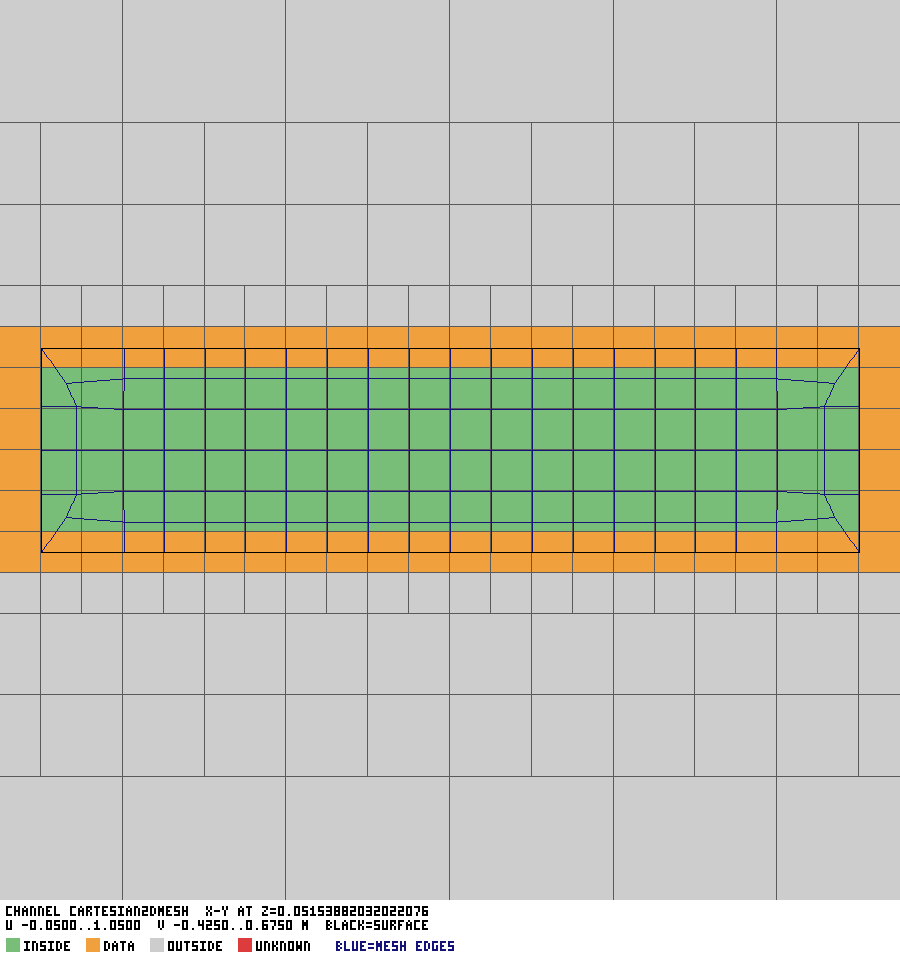
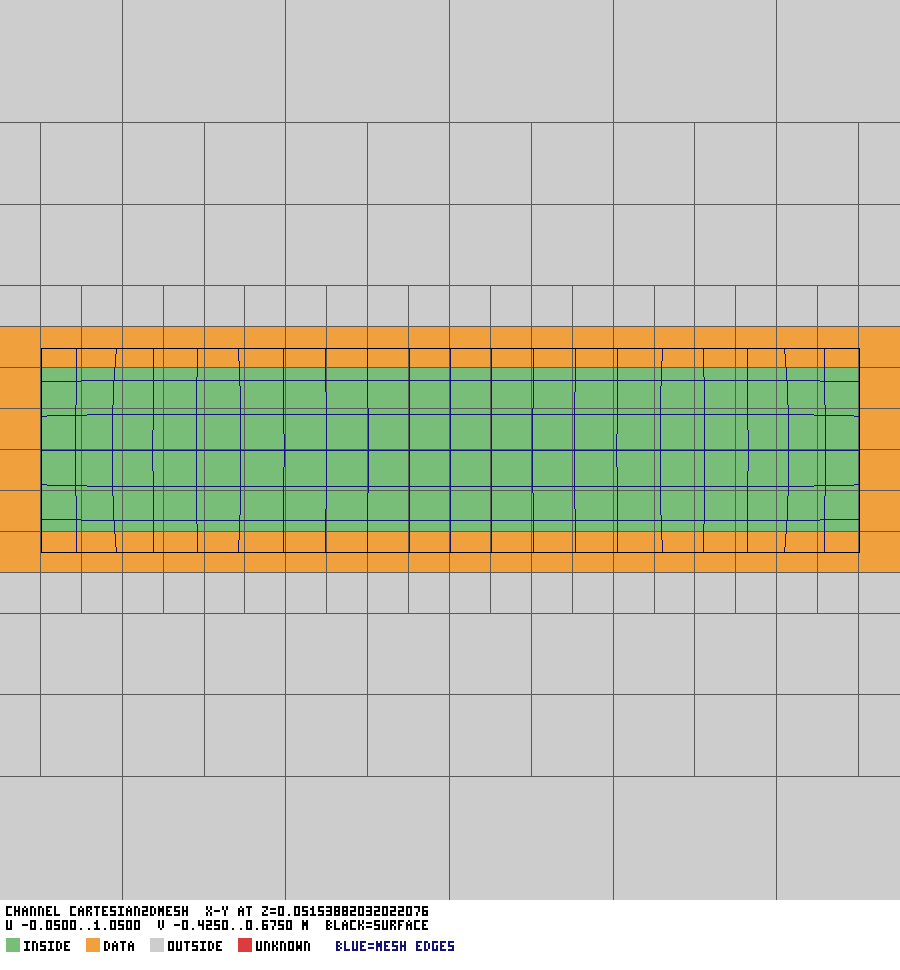
gh:#1275: optimizeSurface2D, untangleSurface2D and the 2D refineBoundaryLayers wired into cartesian_2d_mesh; 2D stop/restart test; S2-S6 held, S1 missed (recorded); D5 re-measured; images regenerated (2D and gh:#1274 rims); coverage, crate CLAUDE.md
Claude-Session: https://claude.ai/code/session_01HxmCueofxcJNMntRMmjqoW

diff --git a/crates/outram-park-fork-cfmesh/src/pipeline/cartesian_2d_mesh.rs b/crates/outram-park-fork-cfmesh/src/pipeline/cartesian_2d_mesh.rs
@@ -40,10 +40,10 @@
 //! | `surfaceTopology` | as `cartesianMesh` | [`super::cartesian_mesh::cartesian_surface_preparation`] |
 //! | `surfaceProjection` | `meshSurfaceMapper2D`: `adjustZCoordinates`, `preMapVertices`, `mapVerticesOntoSurface` | [`crate::surface_mapper_2d`] |
 //! | `patchAssignment` | `meshSurfaceEdgeExtractor2D::distributeBoundaryFaces` | [`crate::surface_mapper_2d::distribute_boundary_faces`] |
-//! | `edgeExtraction` | `remapBoundaryPoints`, then `optimiseMeshSurface` (`optimizeSurface2D`, `untangleSurface2D`) | [`crate::surface_mapper_2d::remap_boundary_points`]; **`optimizeSurface2D` / `untangleSurface2D` not ported** (noted) |
+//! | `edgeExtraction` | `remapBoundaryPoints`, then `optimiseMeshSurface` (`optimizeSurface2D`, `untangleSurface2D`) | [`crate::surface_mapper_2d::remap_boundary_points`]; ~~**`optimizeSurface2D` / `untangleSurface2D` not ported** (noted)~~ [`optimise_mesh_surface_2d`] (gh:#1275 remainder) |
 //! | `boundaryLayerGeneration` | `boundaryLayers` with `activate2DMode`, `addLayerForAllPatches` (always) | ~~`layers::boundary_layers` on every non-empty patch as **one group**, the empty patches untreated (what 2D mode does to them); patch-wise groups not ported~~ **UPDATED 2026-11-05 (gh:#1270 remainder):** `BoundaryLayers::activate_2d_mode` and the patch-wise `add_layer_for_all_patches` |
-//! | `meshOptimisation` | `optimiseMeshSurface` again | **not ported** (noted): nothing moves |
-//! | `boundaryLayerRefinement` | with a dict: `refineBoundaryLayers` in 2D mode, `untangleSurface2D` | **not ported** (2D mode): a dict gives a note, no split |
+//! | `meshOptimisation` | `optimiseMeshSurface` again | ~~**not ported** (noted): nothing moves~~ [`optimise_mesh_surface_2d`] |
+//! | `boundaryLayerRefinement` | with a dict: `refineBoundaryLayers` in 2D mode, `untangleSurface2D` | ~~**not ported** (2D mode): a dict gives a note, no split~~ `refine_boundary_layers_2d`, then `untangle_surface_2d` (gh:#1275 remainder) |
 //! | (always) | `renumberMesh`, `renameBoundaryPatches(mesh, dict, true)` | as `cartesian_mesh`, empty patches allowed |
 //!
 //! Reused from the 3D workflow where upstream reuses it: the extractor, the
@@ -54,6 +54,8 @@
 
 use crate::cartesian_mesh::{create_empty_patches, CartesianMeshOptions};
 use crate::layers::boundary_layers::{BoundaryLayersControls, LayerRequest};
+use crate::layers::refine_boundary_layers::{refine_boundary_layers_2d, RefineBoundaryLayersSettings, RefineError};
+use crate::surface_optimizer::{optimize_surface_2d, untangle_surface_2d, Surface2DReport};
 use crate::pipeline::cartesian_mesh::LayerTopology;
 use crate::math::Vec3;
 use crate::mesh_octree::{MeshOctree, TriSurf};
@@ -81,9 +83,10 @@ pub struct Cartesian2DMeshOptions {
     pub decompose_polyhedra_into_tets_and_pyrs: bool,
     /// `boundaryLayers` creation settings.
     pub layer_heights: BoundaryLayersControls,
-    /// A `boundaryLayers` dict with refinement settings is present (the 2D
-    /// refinement is not ported: a note).
-    pub refine_boundary_layers_requested: bool,
+    /// The `boundaryLayers` dict's refinement settings (`None`: no dict, no
+    /// refinement). ~~`refine_boundary_layers_requested: bool` (the 2D
+    /// refinement was not ported)~~ replaced in gh:#1275's remainder.
+    pub boundary_layers: Option<RefineBoundaryLayersSettings>,
     /// **Ablation, not upstream:** skip `boundaryLayerGeneration`.
     pub without_boundary_layer: bool,
     /// Patch-wise layer (upstream) or the one-group ablation (gh:#1270
@@ -99,7 +102,7 @@ impl Default for Cartesian2DMeshOptions {
             rename_boundary: None,
             decompose_polyhedra_into_tets_and_pyrs: false,
             layer_heights: BoundaryLayersControls::default(),
-            refine_boundary_layers_requested: false,
+            boundary_layers: None,
             without_boundary_layer: false,
             layer_topology: LayerTopology::PatchWise,
         }
@@ -131,6 +134,22 @@ pub struct Cartesian2DMeshReport {
     pub n_layer_cells: usize,
     /// Non-positive cells right after the layer.
     pub n_nonpositive_after_layer: usize,
+    /// `optimizeSurface2D` / `untangleSurface2D` of each `optimiseMeshSurface`
+    /// call (`edgeExtraction`, then `meshOptimisation`).
+    pub surface_2d: Vec<(Surface2DReport, Surface2DReport)>,
+    /// Cells `refineBoundaryLayers` split.
+    pub n_cells_refined: usize,
+    /// `refineBoundaryLayers` refused (this port's `NotPorted`).
+    pub refine_error: Option<String>,
+}
+
+/// `cartesian2DMeshGenerator::optimiseMeshSurface`:
+/// `meshSurfaceOptimizer(mse, octree)`'s `optimizeSurface2D()` (5
+/// iterations) and `untangleSurface2D()` (gh:#1275 remainder).
+pub fn optimise_mesh_surface_2d(m: &mut VolumeMesh, o: &MeshOctree) -> Result<(Surface2DReport, Surface2DReport), String> {
+    let a = optimize_surface_2d(m, o, 5)?;
+    let b = untangle_surface_2d(m)?;
+    Ok((a, b))
 }
 
 /// `meshOctree(surf, true)` and `createOctreeBoxes`: the quadtree.
@@ -238,7 +257,9 @@ fn run_2d(points: &[Vec3], tris: &[[usize; 3]], regions: Option<&SurfaceRegions>
             WorkflowStep::EdgeExtraction => {
                 let n = remap_boundary_points(m, &o)?;
                 rep.n_corner_edges = n;
-                rep.notes.push(format!("edgeExtraction: remapBoundaryPoints ({n} corner edges); optimiseMeshSurface (optimizeSurface2D, untangleSurface2D) NOT PORTED, skipped"));
+                let (a, b) = optimise_mesh_surface_2d(m, &o)?;
+                rep.notes.push(format!("edgeExtraction: remapBoundaryPoints ({n} corner edges); optimiseMeshSurface: optimizeSurface2D ({} outline, {} bottom points), untangleSurface2D bad faces {:?}", a.n_edge_points, a.n_partition_points, b.bad_faces));
+                rep.surface_2d.push((a, b));
             }
             WorkflowStep::BoundaryLayerGeneration => {
                 if opts.without_boundary_layer {
@@ -255,14 +276,27 @@ fn run_2d(points: &[Vec3], tris: &[[usize; 3]], regions: Option<&SurfaceRegions>
                     }
                 }
             }
-            WorkflowStep::MeshOptimisation => rep.notes.push("meshOptimisation: optimiseMeshSurface (optimizeSurface2D, untangleSurface2D) NOT PORTED; nothing moves".into()),
-            WorkflowStep::BoundaryLayerRefinement => {
-                if opts.refine_boundary_layers_requested {
-                    rep.notes.push("boundaryLayerRefinement: refineBoundaryLayers::activate2DMode NOT PORTED; the layer is left unrefined".into());
-                } else {
-                    rep.notes.push("boundaryLayerRefinement: no boundaryLayers dict; nothing to do".into());
-                }
+            WorkflowStep::MeshOptimisation => {
+                let (a, b) = optimise_mesh_surface_2d(m, &o)?;
+                rep.notes.push(format!("meshOptimisation: optimiseMeshSurface: optimizeSurface2D ({} outline, {} bottom points), untangleSurface2D bad faces {:?}", a.n_edge_points, a.n_partition_points, b.bad_faces));
+                rep.surface_2d.push((a, b));
             }
+            WorkflowStep::BoundaryLayerRefinement => match &opts.boundary_layers {
+                None => rep.notes.push("boundaryLayerRefinement: no boundaryLayers dict; nothing to do".into()),
+                Some(s) => match refine_boundary_layers_2d(m, s) {
+                    Ok((mm, rr)) => {
+                        *m = mm;
+                        types.resize(m.patches.len(), "patch".to_string());
+                        rep.n_cells_refined = rr.n_cells_split;
+                        let u = untangle_surface_2d(m)?;
+                        rep.notes.push(format!("boundaryLayerRefinement: refineBoundaryLayers (2D mode) split {} cells ({} edge hexahedra); untangleSurface2D bad faces {:?}", rr.n_cells_split, rr.n_edge_hex_cells, u.bad_faces));
+                    }
+                    Err(RefineError::NotPorted(msg)) => {
+                        rep.notes.push(format!("boundaryLayerRefinement: refineBoundaryLayers NOT PORTED for this mesh ({msg}); the layer is left unrefined"));
+                        rep.refine_error = Some(msg);
+                    }
+                },
+            },
             _ => {}
         }
     }
@@ -447,5 +481,120 @@ mod tests {
             let b = e.z_min_to_z_max[i];
             assert_eq!((moved[a].x, moved[a].y), (moved[b].x, moved[b].y));
         }
+    }
+
+    fn one_cell_thick(m: &VolumeMesh) -> bool {
+        let e2d = PolyMeshGen2DEngine::new(m);
+        e2d.is_ok_and(|e| m.points.iter().enumerate().all(|(i, _)| e.z_min_point[i] ^ e.z_max_point[i]))
+    }
+
+    /// V&V (gh:#1275 remainder), predictions S1–S4 of
+    /// `verification_and_validation/cartesian_2d_mesh_gh1275/README.md`.
+    #[test]
+    fn channel_2d_surface_optimisation_and_refined_layers() {
+        let (p, t, r) = channel_ribbon();
+        let dz = p[4].z;
+        let dict = MeshDict::with_max_cell_size(0.05);
+        // S1, edgeExtraction: the template's optimiseMeshSurface moves nothing
+        let stop = Cartesian2DMeshOptions { dict: dict.clone(), workflow: WorkflowSettings { stop_after: Some(WorkflowStep::PatchAssignment), restart_from_latest_step: false }, ..Default::default() };
+        let (mut m0, _) = cartesian_2d_mesh(&p, &t, Some(&r), &stop).unwrap();
+        let o = create_quadtree(&p, &t, Some(&r), &dict);
+        crate::surface_mapper_2d::remap_boundary_points(&mut m0, &o).unwrap();
+        let before = m0.points.clone();
+        let (a, b) = optimise_mesh_surface_2d(&mut m0, &o).unwrap();
+        let moved = before.iter().zip(&m0.points).map(|(x, y)| x.sub(*y).length()).fold(0.0f64, f64::max);
+        println!("S1 edgeExtraction: optimizeSurface2D {} outline + {} bottom points, largest move {moved:.3e}; untangleSurface2D {:?}", a.n_edge_points, a.n_partition_points, b.bad_faces);
+        // Miss of S1 (predicted < 1e-12): which points moved, and whether
+        // the outline stayed on the straight sides.
+        let on_side = |q: Vec3| q.x.abs() < 1e-12 || (q.x - L).abs() < 1e-12 || q.y.abs() < 1e-12 || (q.y - H).abs() < 1e-12;
+        let (mut out_max, mut in_max, mut off_side) = (0.0f64, 0.0f64, 0usize);
+        for (x, y) in before.iter().zip(&m0.points) {
+            let d = x.sub(*y).length();
+            if on_side(*x) {
+                out_max = out_max.max(d);
+                off_side += usize::from(!on_side(*y));
+            } else {
+                in_max = in_max.max(d);
+            }
+        }
+        let area0 = m0.total_volume() / dz;
+        println!("S1 edgeExtraction: largest move of an outline point {out_max:.3e} ({off_side} left the sides), of an inner point {in_max:.3e}; area {area0:.15}; non-positive {}", n_nonpositive_cells(&m0));
+        assert_eq!(off_side, 0);
+        assert!((area0 - L * H).abs() < 1e-12);
+        assert_eq!(n_nonpositive_cells(&m0), 0);
+        // S1, S2: the finished channel
+        let opts = Cartesian2DMeshOptions { dict: dict.clone(), ..Default::default() };
+        let (m, rep) = cartesian_2d_mesh(&p, &t, Some(&r), &opts).unwrap();
+        for n in rep.notes.iter().filter(|n| n.starts_with("edgeExtraction") || n.starts_with("meshOptimisation")) {
+            println!("  {n}");
+        }
+        let area = m.total_volume() / dz;
+        let q = crate::checks::check_quality(&m);
+        println!("S1 finished: {} cells, area {area:.15} ({:+.3e}), non-positive {}, max non-orth {:.2}, max skew {:.3}", m.n_cells, (area - L * H) / (L * H), n_nonpositive_cells(&m), q.max_non_orthogonality_deg, q.max_skewness);
+        m.validate().unwrap();
+        assert!(one_cell_thick(&m));
+        assert!((area - L * H).abs() < 1e-12);
+        assert_eq!(n_nonpositive_cells(&m), 0);
+        let mut mm = m.clone();
+        let u = untangle_surface_2d(&mut mm).unwrap();
+        println!("S2: untangleSurface2D on the finished channel: bad faces {:?}", u.bad_faces);
+        assert_eq!(u.bad_faces, vec![0]);
+        // S3: drag one bottom point past its neighbour
+        let e2d = PolyMeshGen2DEngine::new(&m).unwrap();
+        let engine = crate::surface_engine::SurfaceEngine::new(&m);
+        let part = crate::surface_engine::SurfacePartitioner::new(&engine);
+        let k = (0..e2d.z_min_point_labels.len())
+            .find(|&k| {
+                let v = e2d.z_min_point_labels[k];
+                let b = engine.bp[v];
+                part.point_patches[b].len() == 1 && m.points[v].x > 0.4 && m.points[v].x < 0.6
+            })
+            .expect("an interior bottom point");
+        let (v, w) = (e2d.z_min_point_labels[k], e2d.z_min_to_z_max[k]);
+        let mut d = m.clone();
+        d.points[v].x += 0.08;
+        d.points[w].x += 0.08;
+        let n_bad0 = crate::mesh_optimizer::find_bad_faces(&d).iter().filter(|&&x| x).count();
+        let u = untangle_surface_2d(&mut d).unwrap();
+        let n_bad1 = crate::mesh_optimizer::find_bad_faces(&d).iter().filter(|&&x| x).count();
+        println!("S3: dragged point {v} by 0.08: bad faces {n_bad0} -> {n_bad1}; iterations {:?}; non-positive {}", u.bad_faces, n_nonpositive_cells(&d));
+        assert!(n_bad0 > 0);
+        assert_eq!(n_bad1, 0);
+        // S4: nLayers 3
+        let s = crate::layers::refine_boundary_layers::RefineBoundaryLayersSettings { n_layers: 3, ..Default::default() };
+        let opts3 = Cartesian2DMeshOptions { dict, boundary_layers: Some(s), ..Default::default() };
+        let (m3, rep3) = cartesian_2d_mesh(&p, &t, Some(&r), &opts3).unwrap();
+        for n in rep3.notes.iter().filter(|n| n.starts_with("boundaryLayerRefinement")) {
+            println!("  {n}");
+        }
+        let area3 = m3.total_volume() / dz;
+        println!("S4: {} cells, area {area3:.15}, non-positive {}, refine error {:?}", m3.n_cells, n_nonpositive_cells(&m3), rep3.refine_error);
+        m3.validate().unwrap();
+        assert!(one_cell_thick(&m3));
+        assert_eq!(m3.n_cells, 240);
+        assert!((area3 - L * H).abs() < 1e-12);
+        assert_eq!(n_nonpositive_cells(&m3), 0);
+    }
+
+    /// V&V (gh:#1275 remainder), prediction S5: stop and restart.
+    #[test]
+    fn cartesian_2d_mesh_stop_and_restart_reproduce_the_full_run() {
+        let (p, t, r) = channel_ribbon();
+        let s = crate::layers::refine_boundary_layers::RefineBoundaryLayersSettings { n_layers: 3, ..Default::default() };
+        let base = Cartesian2DMeshOptions { dict: MeshDict::with_max_cell_size(0.05), boundary_layers: Some(s), ..Default::default() };
+        let (full, rep) = cartesian_2d_mesh(&p, &t, Some(&r), &base).unwrap();
+        assert!(rep.meta == MeshMetaData::default());
+        for at in [WorkflowStep::EdgeExtraction, WorkflowStep::BoundaryLayerGeneration] {
+            let stop = Cartesian2DMeshOptions { workflow: WorkflowSettings { stop_after: Some(at), restart_from_latest_step: false }, ..base.clone() };
+            let (stopped, srep) = cartesian_2d_mesh(&p, &t, Some(&r), &stop).unwrap();
+            assert_eq!(srep.stopped_after, Some(at));
+            let saved = SavedMesh { mesh: stopped, patch_types: srep.patch_types.clone(), meta: srep.meta.clone() };
+            let restart = Cartesian2DMeshOptions { workflow: WorkflowSettings { stop_after: None, restart_from_latest_step: true }, ..base.clone() };
+            let (resumed, rrep) = cartesian_2d_mesh_restart(&p, &t, Some(&r), &restart, &saved).unwrap();
+            println!("stopped after {at:?}: resumed at {:?}, same mesh {}", rrep.steps_run.first(), crate::tet_mesh_extractor_octree::same_mesh(&resumed, &full));
+            assert!(crate::tet_mesh_extractor_octree::same_mesh(&resumed, &full));
+        }
+        let (again, _) = cartesian_2d_mesh(&p, &t, Some(&r), &base).unwrap();
+        assert!(crate::tet_mesh_extractor_octree::same_mesh(&again, &full));
     }
 }

diff --git a/crates/outram-park-fork-cfmesh/examples/cartesian_mesh_images.rs b/crates/outram-park-fork-cfmesh/examples/cartesian_mesh_images.rs
@@ -478,6 +478,14 @@ fn main() {
     draw(&o2, &xy, Colouring::Type, Some(&m2), "CHANNEL CARTESIAN2DMESH", &p2("channel_2d_xy.png"));
     let xz = Slice { axis: 1, at: 0.1, lo: (-0.05, -0.5), hi: (1.05, 0.6), px: 900 };
     draw(&o2, &xz, Colouring::Type, Some(&m2), "CHANNEL CARTESIAN2DMESH", &p2("channel_2d_xz.png"));
+    // gh:#1275 remainder: the patch-wise layer refined into 3 (2D mode), and
+    // the inlet corner zoomed.
+    let s3 = outram_park_fork_cfmesh::layers::refine_boundary_layers::RefineBoundaryLayersSettings { n_layers: 3, ..Default::default() };
+    let (m2r, _) = cartesian_2d_mesh(&rp, &rt, Some(&reg), &Cartesian2DMeshOptions { dict: dict.clone(), boundary_layers: Some(s3), ..Default::default() }).expect("2D refined");
+    draw(&o2, &xy, Colouring::Type, Some(&m2r), "CHANNEL CARTESIAN2DMESH NLAYERS 3", &p2("channel_2d_refined_3_xy.png"));
+    let corner = Slice { axis: 2, at: 0.5 * dz, lo: (-0.01, -0.01), hi: (0.09, 0.09), px: 900 };
+    draw(&o2, &corner, Colouring::Type, Some(&m2), "CHANNEL CARTESIAN2DMESH INLET CORNER", &p2("channel_2d_corner_xy.png"));
+    draw(&o2, &corner, Colouring::Type, Some(&m2r), "CHANNEL NLAYERS 3 INLET CORNER", &p2("channel_2d_refined_3_corner_xy.png"));
     let (bp, bt) = box_surface(Vec3::ZERO, Vec3::new(1.0, 0.25, 0.5));
     let o3 = create_octree(&bp, &bt, None, &dict);
     let (m3, _) = cartesian_mesh(&bp, &bt, None, &CartesianMeshGeneratorOptions { dict: dict.clone(), ..Default::default() }).expect("3D");

diff --git a/crates/outram-park-fork-cfmesh/src/surface_optimizer.rs b/crates/outram-park-fork-cfmesh/src/surface_optimizer.rs
@@ -658,8 +658,9 @@ pub struct UntangleReport {
 ///
 /// The partitioner's patches must be the surface's region indices when a
 /// mapper is given (`mapEdgeNodes` asks for the nearest point of each
-/// patch). Not ported: `optimizeSurface2D`, `untangleSurface2D`,
-/// `enforceConstraints` (upstream throws and writes a point subset; there
+/// patch). Not ported: ~~`optimizeSurface2D`, `untangleSurface2D`,~~
+/// (**ported 2026-11-05, gh:#1275 remainder**: [`optimize_surface_2d`],
+/// [`untangle_surface_2d`]) `enforceConstraints` (upstream throws and writes a point subset; there
 /// is no subset here), and the parallel exchanges.
 #[derive(Debug, Clone)]
 pub struct MeshSurfaceOptimizer {

diff --git a/crates/outram-park-fork-cfmesh/docs/upstream_coverage.md b/crates/outram-park-fork-cfmesh/docs/upstream_coverage.md
@@ -85,7 +85,7 @@ Paths are under `meshLibrary/utilities/` unless they start with `meshLibrary/` o
 | `meshLibrary/voronoiMesh/voronoiMeshGenerator` | 630 | ~~not ported~~ **ported (2026-11-05, gh:#1273)** | `pipeline::p_mesh` (shares `pipeline::tet_mesh`'s generator body) | Workflow as `tetMesh`, plus `preMapVertices` (not ported, surface track; noted) and a second `untangleSurface` (~~not ported~~ **CORRECTED 2026-11-05, gh:#1269:** called, `tet_mesh::untangle_again`, since gh:#1259 merged). `edgeExtraction` is `meshSurfaceEdgeExtractorFUN` ~~without its fundamental sheets (gh:#1269)~~, with them since gh:#1281. Results: `verification_and_validation/p_mesh_gh1273/`. |
 | `meshLibrary/voronoiMesh/voronoiMeshExtractor` | 674 | ~~not ported~~ **ported (2026-11-05, gh:#1273)** | `voronoi_mesh_extractor`; `cell_centre_dual`, `dual::polyhedral_dual*` kept | Tet-centroid dual of `tetCreatorOctree` tets, cells only at interior vertices. Equal to `CellCentre`'s interior cells to 9.8e-15 where `polyDualMesh` accepts the tets (§3). |
 | `executables/cartesian2DMesh` | 66 | ~~not ported~~ **ported (2026-11-05, gh:#1275)** | `pipeline::cartesian_2d_mesh::{cartesian_2d_mesh, cartesian_2d_mesh_restart}` | Thin `main`. |
-| `meshLibrary/cartesian2DMesh/cartesian2DMeshGenerator` | 536 | ~~not ported~~ **ported (2026-11-05, gh:#1275)** | `pipeline::cartesian_2d_mesh` | Every member in Rust. Steps whose callees are gaps say so in the report: `optimiseMeshSurface` (`optimizeSurface2D`, `untangleSurface2D`), the 2D `refineBoundaryLayers`; the layer is ~~the one-group route~~ **patch-wise with `activate2DMode` (gh:#1270 remainder)**. Results: `verification_and_validation/cartesian_2d_mesh_gh1275/`. |
+| `meshLibrary/cartesian2DMesh/cartesian2DMeshGenerator` | 536 | ~~not ported~~ **ported (2026-11-05, gh:#1275)** | `pipeline::cartesian_2d_mesh` | Every member in Rust. ~~Steps whose callees are gaps say so in the report: `optimiseMeshSurface` (`optimizeSurface2D`, `untangleSurface2D`), the 2D `refineBoundaryLayers`;~~ **UPDATED 2026-11-05 (gh:#1275 remainder):** `optimiseMeshSurface` and the 2D `refineBoundaryLayers` are ported and called; the layer is ~~the one-group route~~ **patch-wise with `activate2DMode` (gh:#1270 remainder)**. Results: `verification_and_validation/cartesian_2d_mesh_gh1275/`. |
 | `meshLibrary/utilities/workflowControls` | 477 | ~~not ported~~ **ported (2026-11-05, gh:#1272)** | `workflow_controls` | `stopAfter` / restart of a workflow step; a member of all four generators. The meta data and the saved mesh are values, not files. |
 | `meshLibrary/utilities/checkMeshDict` | 1438 | not applicable | `pipeline::TetDualOptions`, `BoundaryLayerOptimisationControls` | Validation of a `meshDict`; settings here are typed Rust structs. Revisit if a `meshDict` reader is ever added (§4, "Not planned"). |
 
@@ -166,7 +166,7 @@ _Subtotal: 9587 lines._
 
 | Upstream | Lines | Status | Rust | Notes |
 |---|---:|---|---|---|
-| `smoothers/geometry/meshSurfaceOptimizer (serial)` | 2266 | ~~not ported~~ **partial (2026-11-05, gh:#1259)** | `surface_optimizer::MeshSurfaceOptimizer`, `map_mesh_to_surface`, `optimise_mesh_surface`; `mesh_optimizer::optimize_surface` (`meshOptimizerOptimizeSurface.C`) | Ported (3-D, serial): `untangleSurface` (both forms), `optimizeSurface`, Laplacian FC, `surfaceOptimizer` smoothing, edge-node smoothing, `lockBoundaryFaces`/`Points`/`FeatureEdges`, `removeUserConstraints`, the mapper calls. Not ported: `untangleSurface2D`, `optimizeSurface2D`, `enforceConstraints` (no point subsets), `newPositionLaplacian`/`LaplacianWFC` (no 3-D caller). All opt-in (`TetDualOptions::untangle_surface`); differential against `revert_tangled` in `laminar_pipe_gh1155.md` (gh:#1259). |
+| `smoothers/geometry/meshSurfaceOptimizer (serial)` | 2266 | ~~not ported~~ **partial (2026-11-05, gh:#1259)** | `surface_optimizer::MeshSurfaceOptimizer`, `map_mesh_to_surface`, `optimise_mesh_surface`; `mesh_optimizer::optimize_surface` (`meshOptimizerOptimizeSurface.C`) | Ported (3-D, serial): `untangleSurface` (both forms), `optimizeSurface`, Laplacian FC, `surfaceOptimizer` smoothing, edge-node smoothing, `lockBoundaryFaces`/`Points`/`FeatureEdges`, `removeUserConstraints`, the mapper calls. Not ported: ~~`untangleSurface2D`, `optimizeSurface2D`~~ (**ported 2026-11-05, gh:#1275 remainder**: `optimize_surface_2d`, `untangle_surface_2d`, wired into `cartesian_2d_mesh`), `enforceConstraints` (no point subsets), `newPositionLaplacian`/`LaplacianWFC` (no 3-D caller). All opt-in (`TetDualOptions::untangle_surface`); differential against `revert_tangled` in `laminar_pipe_gh1155.md` (gh:#1259). |
 | `smoothers/geometry/meshSurfaceOptimizer: OptimizePointParallel.C` | 522 | not applicable | — | MPI. |
 | `.../advancedSurfaceSmoothers/surfaceOptimizer` | 545 | ~~not ported~~ **ported (2026-11-05, gh:#1258)** | `surface_optimizer::optimize_point` | The 2D (in-plane) volume-optimiser analogue `untangleSurface` uses; `matrix2D`'s solve inline. |
 
@@ -1121,3 +1121,18 @@ pinned bit for bit. Six-patch box with the patch-wise layer, `nLayers` 3:
 (5 248 cells, closed, 0 non-positive). The row stays partial (2D, the
 appended-points case, `activateSpecialMode`). Record:
 `verification_and_validation/patch_wise_layers_gh1270/README.md`.
+
+### gh:#1275 remainder: `optimizeSurface2D`, `untangleSurface2D`, the 2D `refineBoundaryLayers`, 2026-11-05
+
+`surface_optimizer::{optimize_surface_2d, untangle_surface_2d}` (about
+270 upstream lines), `surface_mapper_2d::map_edges_onto_surface_patches_2d`
+(the selected-edge mapping; the all-edge form calls it) and
+`refine_boundary_layers_2d` (`activate2DMode`: the empty faces out of every
+layer, the rest the general split). `cartesian_2d_mesh` calls
+`optimiseMeshSurface` in `edgeExtraction` and `meshOptimisation` and the 2D
+refinement with `untangleSurface2D`; `Cartesian2DMeshOptions::boundary_layers`
+replaces `refine_boundary_layers_requested`. The channel stays one cell
+thick with its area exact; `nLayers` 3 gives 240 cells; stop and restart
+reproduce the run. The `meshSurfaceOptimizer` row stays partial
+(`enforceConstraints`, `newPositionLaplacian(WFC)`). Record:
+`verification_and_validation/cartesian_2d_mesh_gh1275/README.md`.

diff --git a/crates/outram-park-fork-cfmesh/verification_and_validation/cartesian_2d_mesh_gh1275/README.md b/crates/outram-park-fork-cfmesh/verification_and_validation/cartesian_2d_mesh_gh1275/README.md
@@ -244,3 +244,60 @@ The channel `[0, 1] x [0, 0.25]` at 0.05, as above.
 - **S6 (re-measuring D5).** With the 2D smoothing the final 2D layout is
   closer to the 3D mid-plane: the maximum distance to the nearest 2D node
   falls below the 28.5 mm (0.6 cell) of D5.
+
+## Results (2026-11-05, `cargo test --release`)
+
+Tests: `pipeline::cartesian_2d_mesh::tests::{channel_2d_surface_optimisation_and_refined_layers,
+cartesian_2d_mesh_stop_and_restart_reproduce_the_full_run,
+channel_2d_against_the_3d_mid_plane}`.
+
+- **S1 missed on the first half, held on the second.** On the mapped
+  template (after `remapBoundaryPoints`) `optimizeSurface2D` moves 40
+  outline and 51 bottom points by up to **3.6e-2** (an outline point) and
+  3.4e-2 (an inner point), against the predicted 1e-12: the cell is 0.047,
+  so this is most of a cell. No outline point leaves its straight side, the
+  area stays 0.25 to the last digit, and no cell is non-positive. My
+  premise, that the mapped template is a uniform grid, is wrong where
+  `remapBoundaryPoints` stretches the boundary cells across the gap
+  between the template and the surface; I have not checked the spacing
+  point by point. The finished channel: 120 cells, area 0.25 (+2.2e-16),
+  one cell thick, closed, 0 non-positive, max non-orthogonality 4.00°
+  (9.94° before), max skewness 0.012 (0.051).
+- **S2 held.** `untangleSurface2D` on the finished channel: bad faces `[0]`.
+- **S3 held.** One bottom point (and its top partner) dragged 0.08 in x:
+  5 bad faces, `untangle_surface_2d` iterations `[5, 0]`, 0 bad faces and 0
+  non-positive cells after.
+- **S4 held.** `nLayers` 3: 48 cells split (44 prisms, 4 edge hexahedra
+  across the thickness), 240 cells, area 0.25, one cell thick, closed, 0
+  non-positive; `untangleSurface2D` after it found `[0]`.
+- **S5 held.** Stopped after `edgeExtraction` (resumed at
+  `boundaryLayerGeneration`) and after `boundaryLayerGeneration` (resumed
+  at `meshOptimisation`): the uninterrupted mesh bit for bit, with the
+  `nLayers` 3 dict; two runs bit for bit.
+- **S6 held.** The 2D layout against the 3D box channel's mid-plane (both
+  now with the patch-wise layer, the 3D one in four groups): 147 2D nodes,
+  nearest 3D slab node mean 1.7 mm, **max 6.9 mm (0.15 cell)**, was 28.5 mm
+  (0.6 cell) in D5. Only 4 nodes coincide to 1e-9, as before.
+
+**D5 re-measured:** ~~mean 8.2 mm, max 28.5 mm (0.6 cell)~~ mean 1.7 mm,
+max 6.9 mm (0.15 cell), with `optimiseMeshSurface` (2D) and the
+patch-wise layer in both routes. The record above D5 is kept as it was
+measured.
+
+### Images (regenerated)
+
+`cargo run --release -p outram-park-fork-cfmesh --example cartesian_mesh_images
+-- crates/outram-park-fork-cfmesh/verification_and_validation/cartesian_mesh_gh1274
+crates/outram-park-fork-cfmesh/verification_and_validation/cartesian_2d_mesh_gh1275`
+
+| file | what |
+|---|---|
+| `channel_2d_xy.png`, `channel_2d_xz.png` | regenerated: the patch-wise layer and the 2D surface smoothing |
+| `channel_2d_corner_xy.png` | the inlet corner: wall and inlet layers with the edge cell between them |
+| `channel_2d_refined_3_xy.png`, `channel_2d_refined_3_corner_xy.png` | `nLayers` 3: three layers on each side, a 3 x 3 block at the corner |
+
+**What I checked:** the refined corner shows three inlet and three wall
+layers meeting in a 3 x 3 block; the outline stays on the surface trace.
+**What I could not check:** the octree overlay makes the whole-channel
+image hard to read; I checked the corners in the zooms only.
+

diff --git a/crates/outram-park-fork-cfmesh/verification_and_validation/cartesian_mesh_gh1274/README.md b/crates/outram-park-fork-cfmesh/verification_and_validation/cartesian_mesh_gh1274/README.md
@@ -203,7 +203,7 @@ upstream workflow. The "without layer" row is the ablation.
      patch-wise groups are not ported.
    - In `pipe_xz_rim_cartesian_mesh.png` the rim layer cell is pinched
      diagonally into the corner. Upstream's separate wall and inlet
-     columns would not do that.
+     columns would not do that. **RE-MEASURED 2026-11-05:** with the patch-wise layer (now the default) the rim is not pinched; the regenerated image shows separate columns.
 3. **`refine_boundary_layers` returns `NotPorted` for two-direction
    cells: not met**, for the reason in C9.
 
@@ -229,7 +229,7 @@ cargo run --release -p outram-park-fork-cfmesh --example cartesian_mesh_images -
 - One layer of thin cells follows the wall, with radial spokes from the
   former template corners.
 - The core stays a hex grid.
-- At the pipe rim the layer cell is pinched diagonally (caveat 2).
+- ~~At the pipe rim the layer cell is pinched diagonally (caveat 2).~~ **REGENERATED 2026-11-05 (gh:#1270 remainder):** the rim images now show the patch-wise layer (wall and inlet layers with an edge cell); the one-group pinch is in `patch_wise_layers_gh1270/pipe_otopology_layer_stage_xz_rim.png`.
 
 **What I could not check:** 3D views, and the patch of each face (faces are
 not coloured by patch).

diff --git a/crates/outram-park-fork-cfmesh/CLAUDE.md b/crates/outram-park-fork-cfmesh/CLAUDE.md
@@ -291,8 +291,12 @@ whose every cube spans the root box in z, with 4 children and the slots
 The 2D addressing is `poly_mesh_gen_2d_engine`, and the 2D mapping is
 `surface_mapper_2d`.
 
-`optimizeSurface2D`, `untangleSurface2D` and the 2D `refineBoundaryLayers`
-are not ported; the report says so at each step. Record:
+~~`optimizeSurface2D`, `untangleSurface2D` and the 2D `refineBoundaryLayers`
+are not ported; the report says so at each step.~~ **UPDATED 2026-11-05
+(gh:#1275 remainder):** all three are ported
+(`surface_optimizer::{optimize_surface_2d, untangle_surface_2d}`,
+`refine_boundary_layers_2d`) and called where upstream calls them; the
+layer is patch-wise. Record:
 `verification_and_validation/cartesian_2d_mesh_gh1275/`.
 
 ## Avoid writing macros (workspace rule, 2026-11-05)
